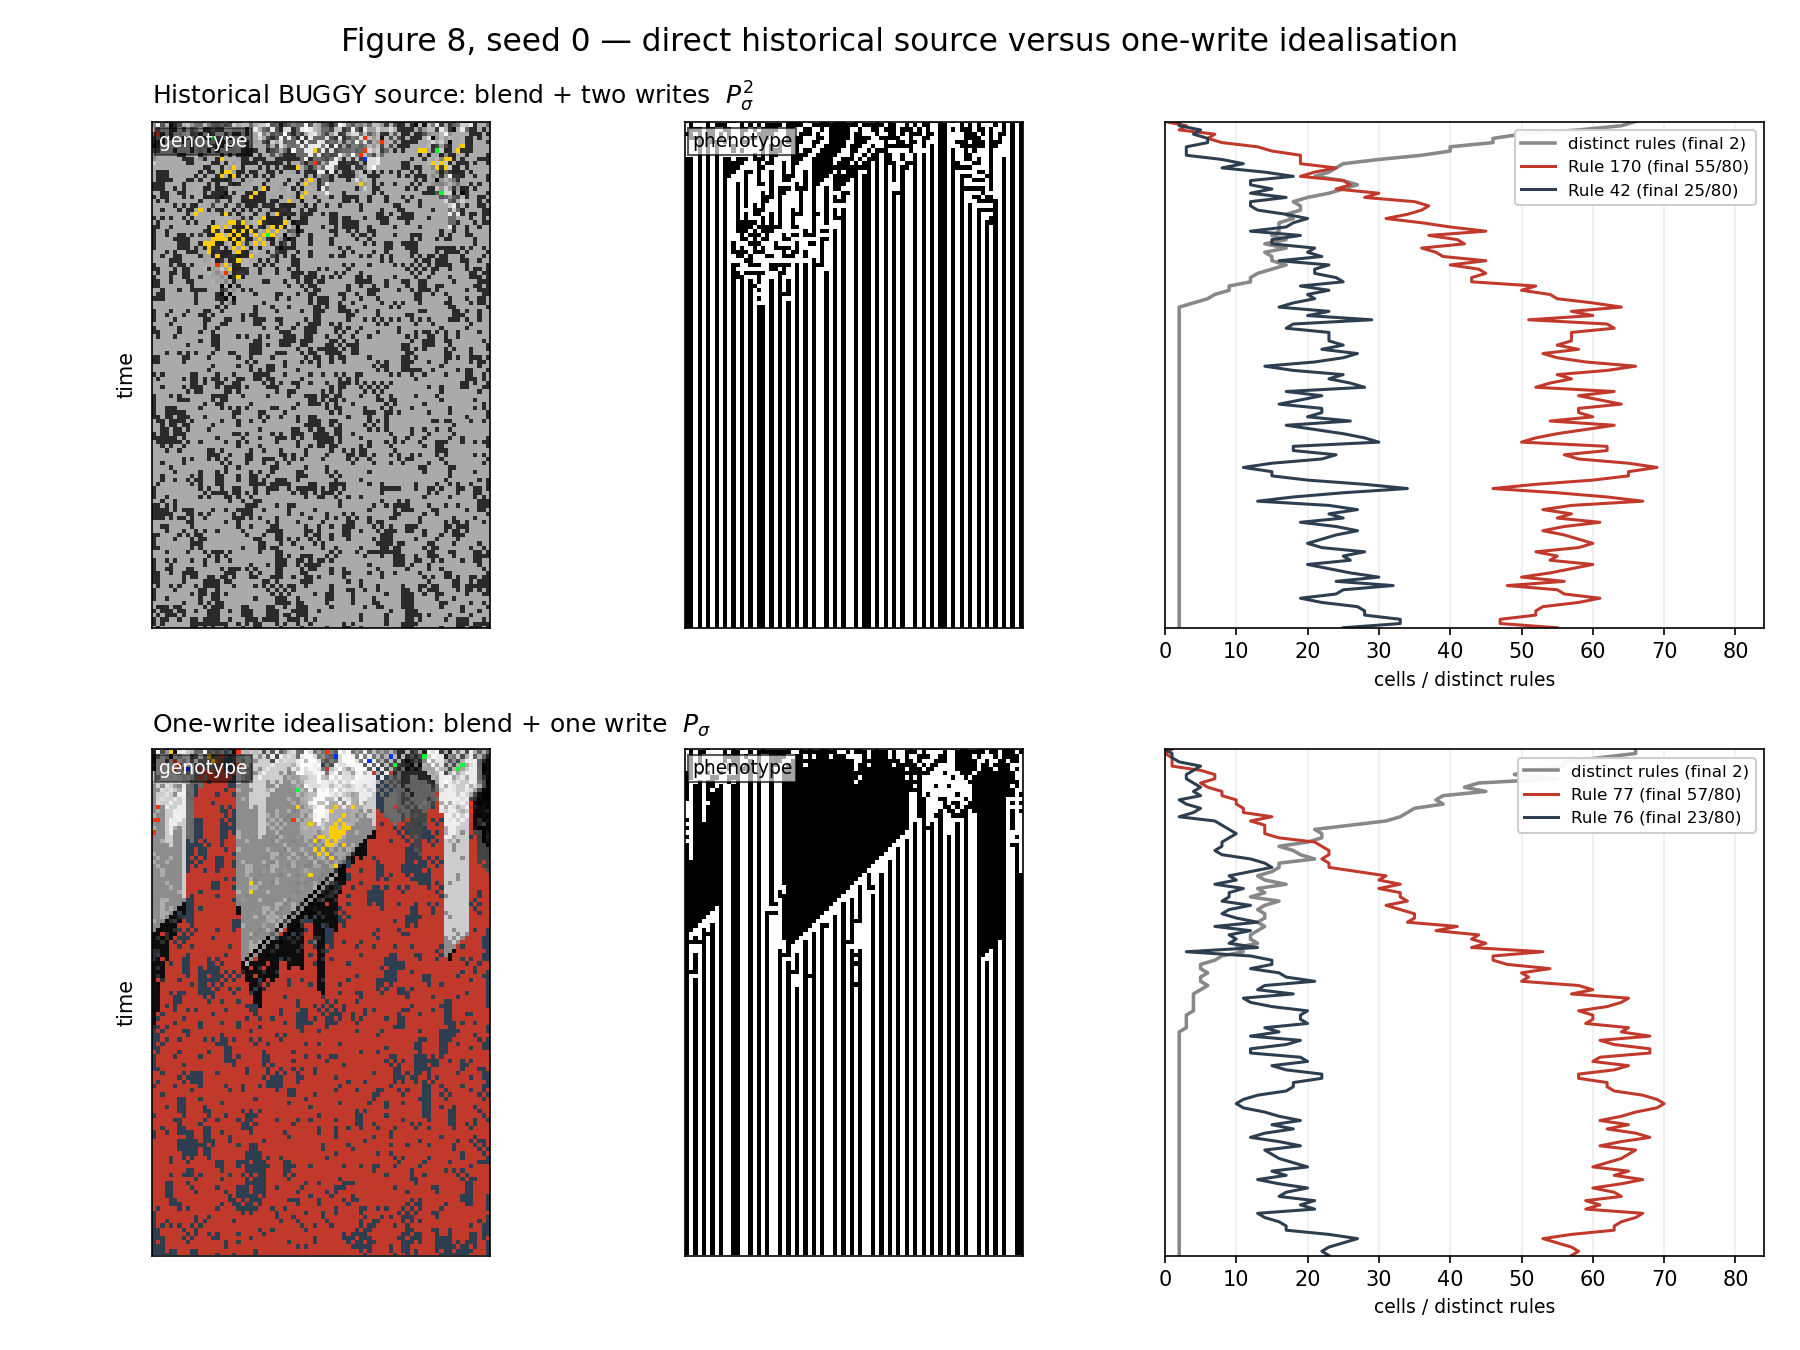
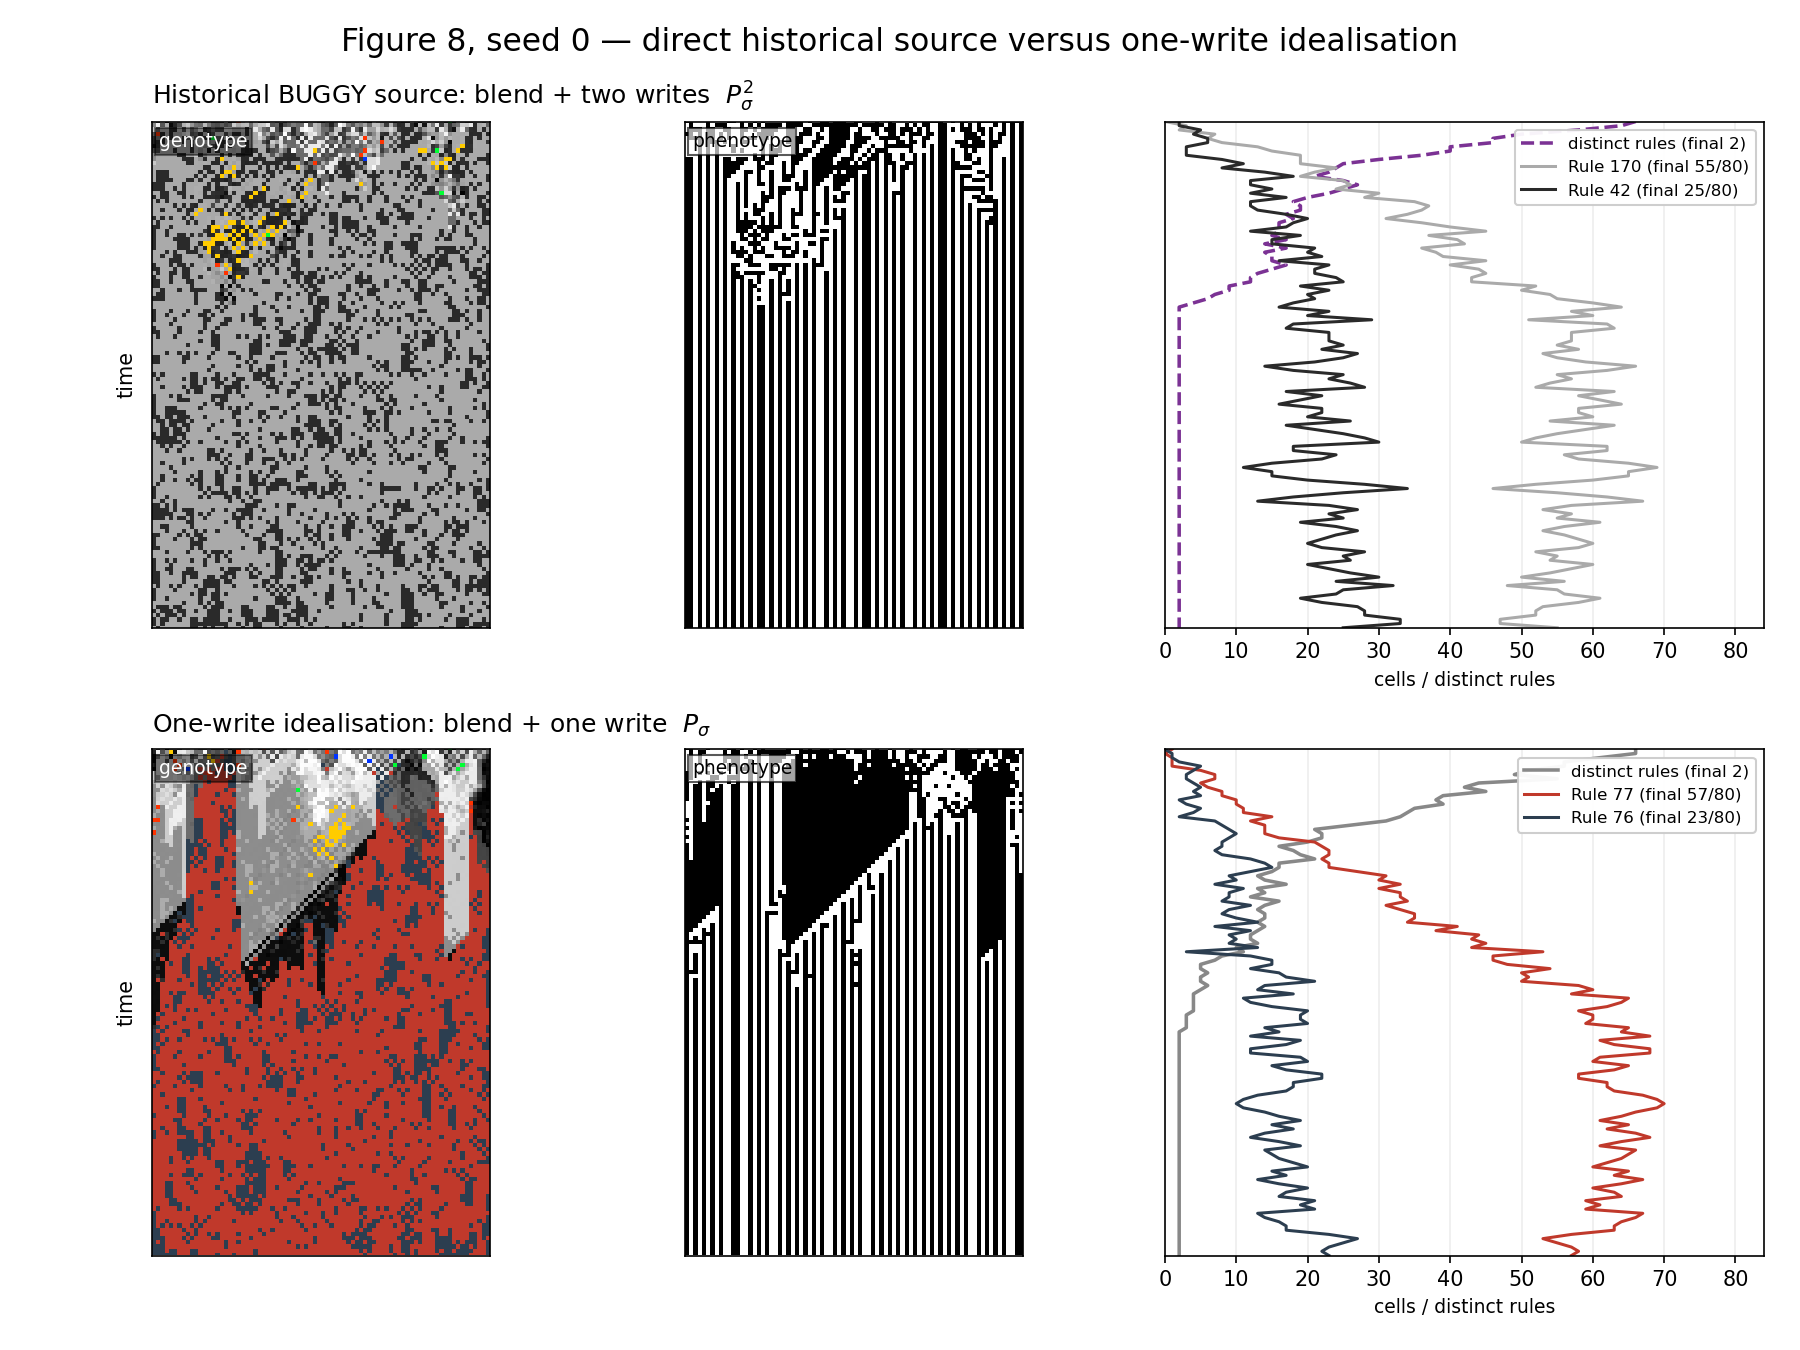
Match historical Figure 8 trace colours

diff --git a/holes/tech-notes/paper/draft2.tex b/holes/tech-notes/paper/draft2.tex
@@ -299,8 +299,9 @@ coexist; the metric measures we tried do not separate the two
 idealisation (seed 0, width 80). Top: a direct replay of the historical
 Figure~8 source. Its neighbour blend is followed by two independent calls to
 the erroneous mutation, equivalently two writes by
-$\sigma=[0,0,1,2,3,4,5,6]$. The distinct-rule count (grey) falls from tens to
-two; rules $170$ (red) and $42$ (dark) partition the field. Bottom: the later
+$\sigma=[0,0,1,2,3,4,5,6]$. The distinct-rule count (purple, dashed) falls from
+tens to two; rules $170$ (light grey) and $42$ (dark grey) partition the field,
+with population traces matching their genotype colours. Bottom: the later
 one-write propagator idealisation, which applies the same $\sigma$ only once
 after blending. Its terminal genotypes, rules $77$ (red) and $76$ (dark), are
 colour-coded to distinguish their adjacent greyscale rule numbers. This lower
